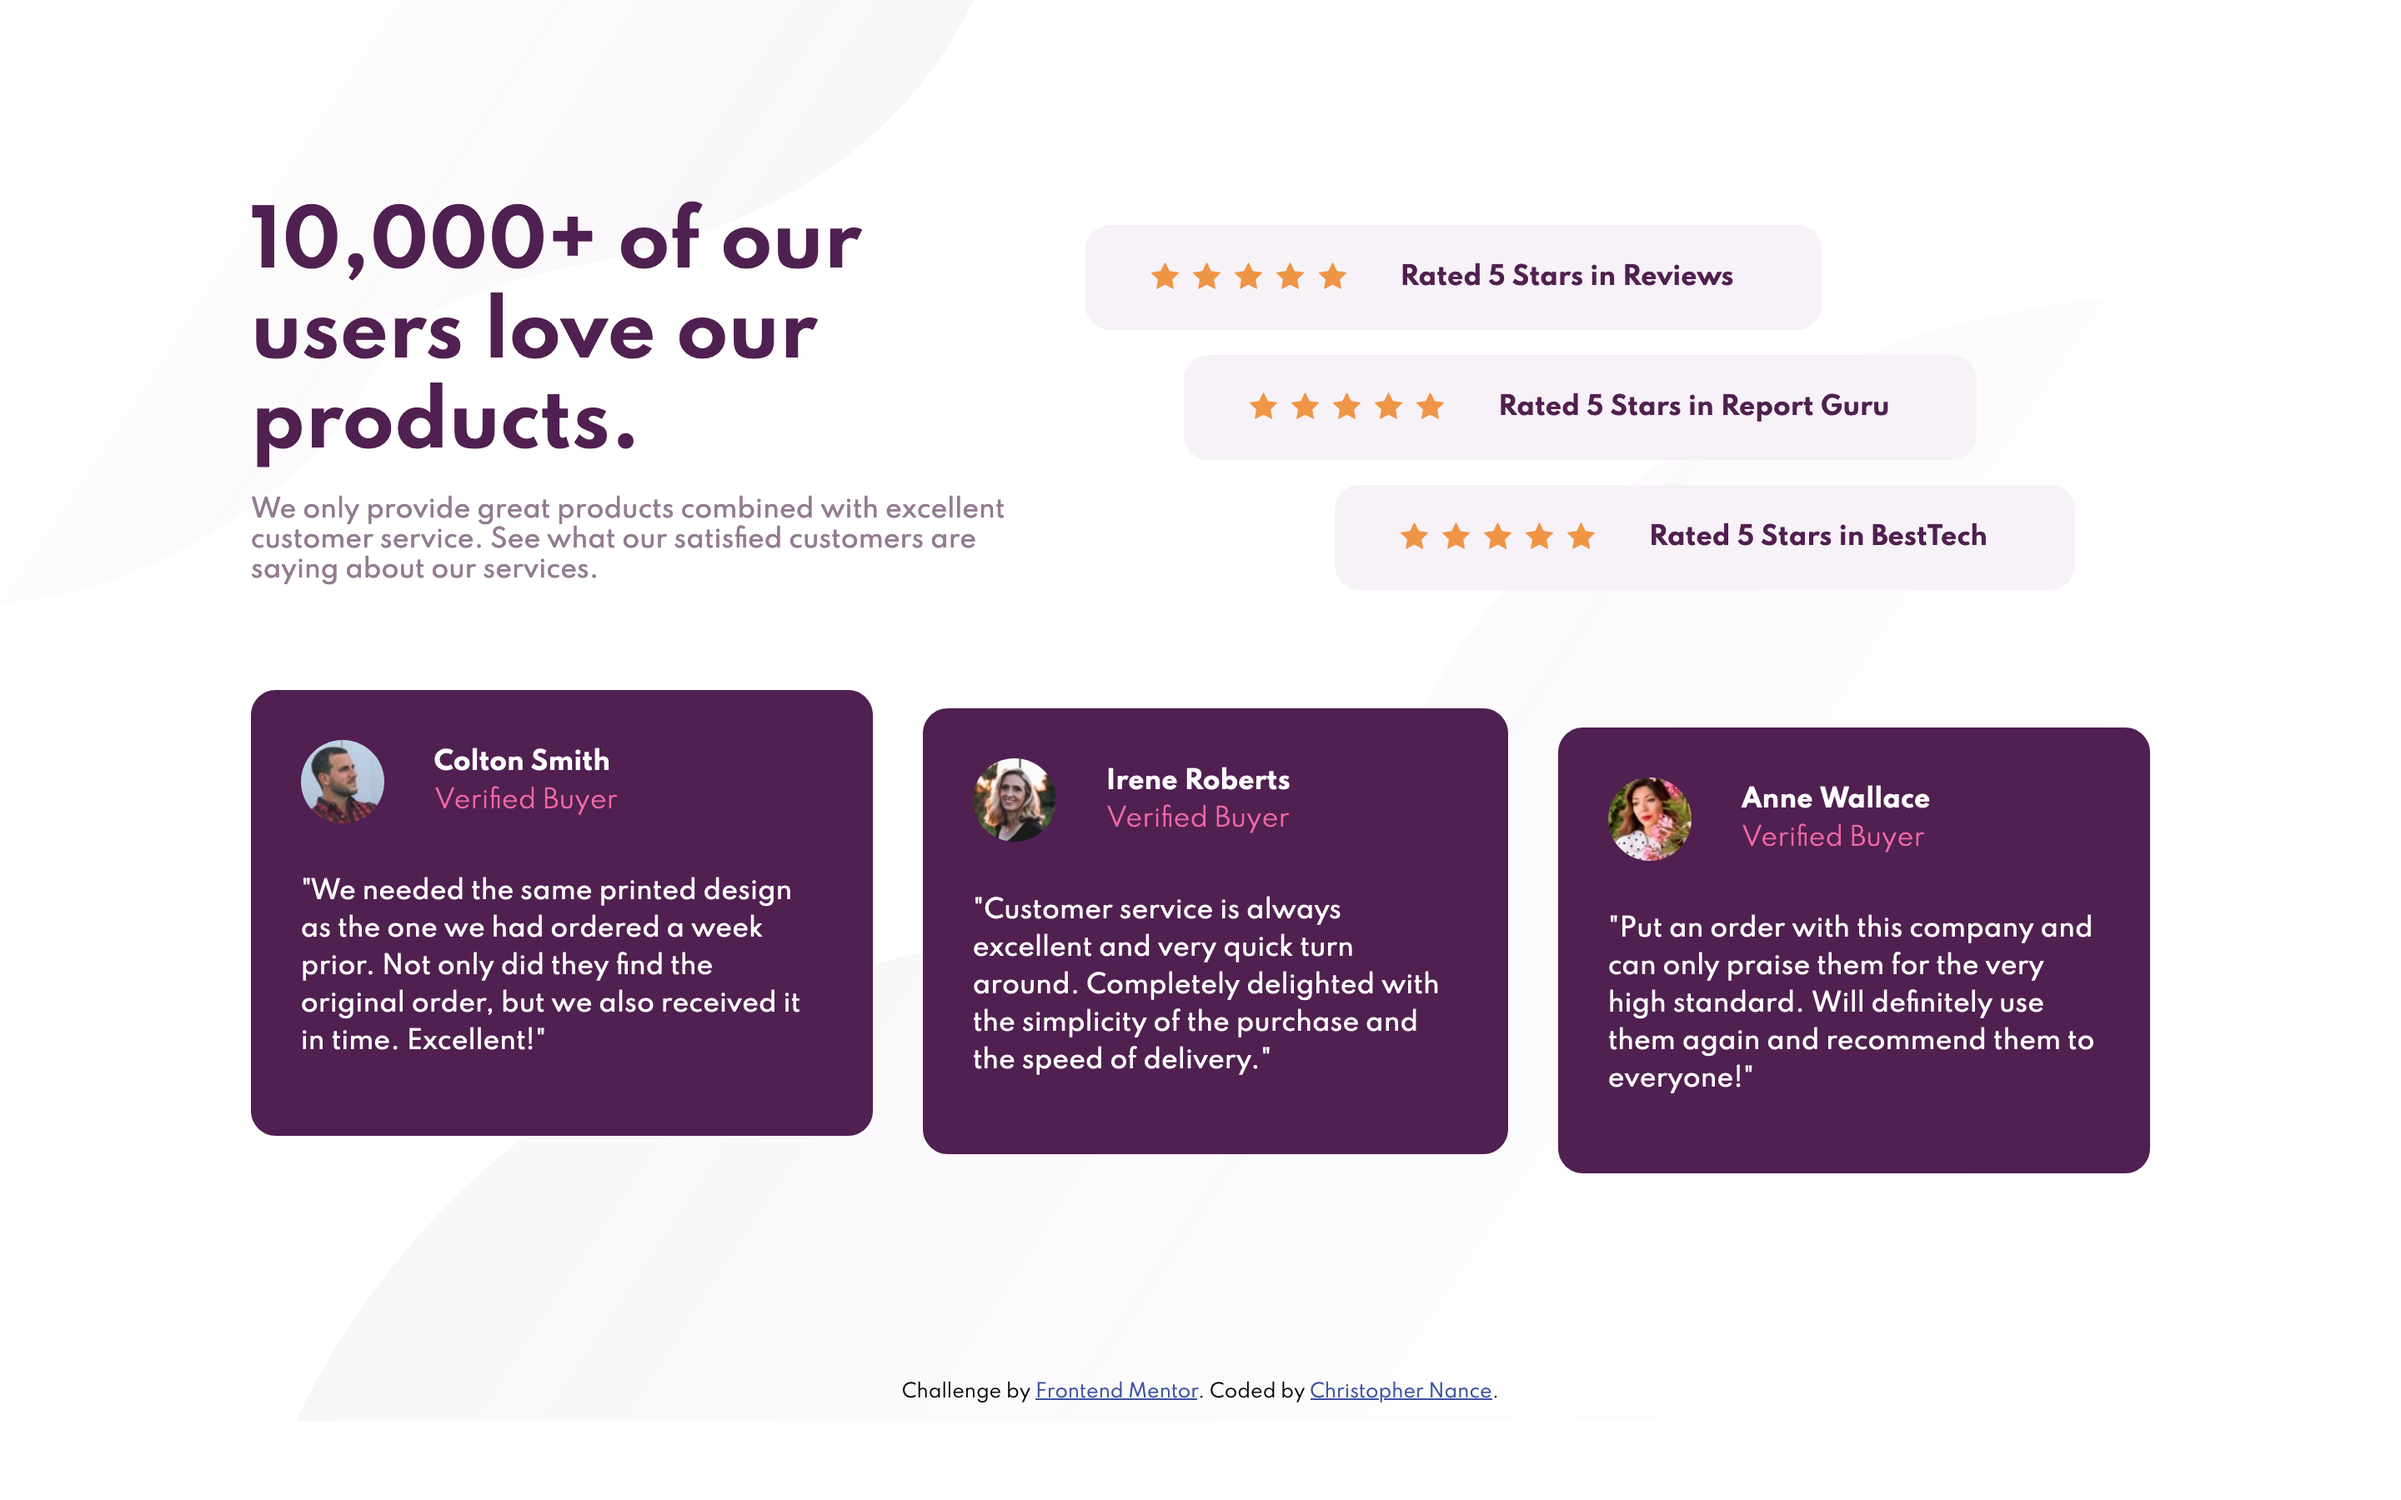
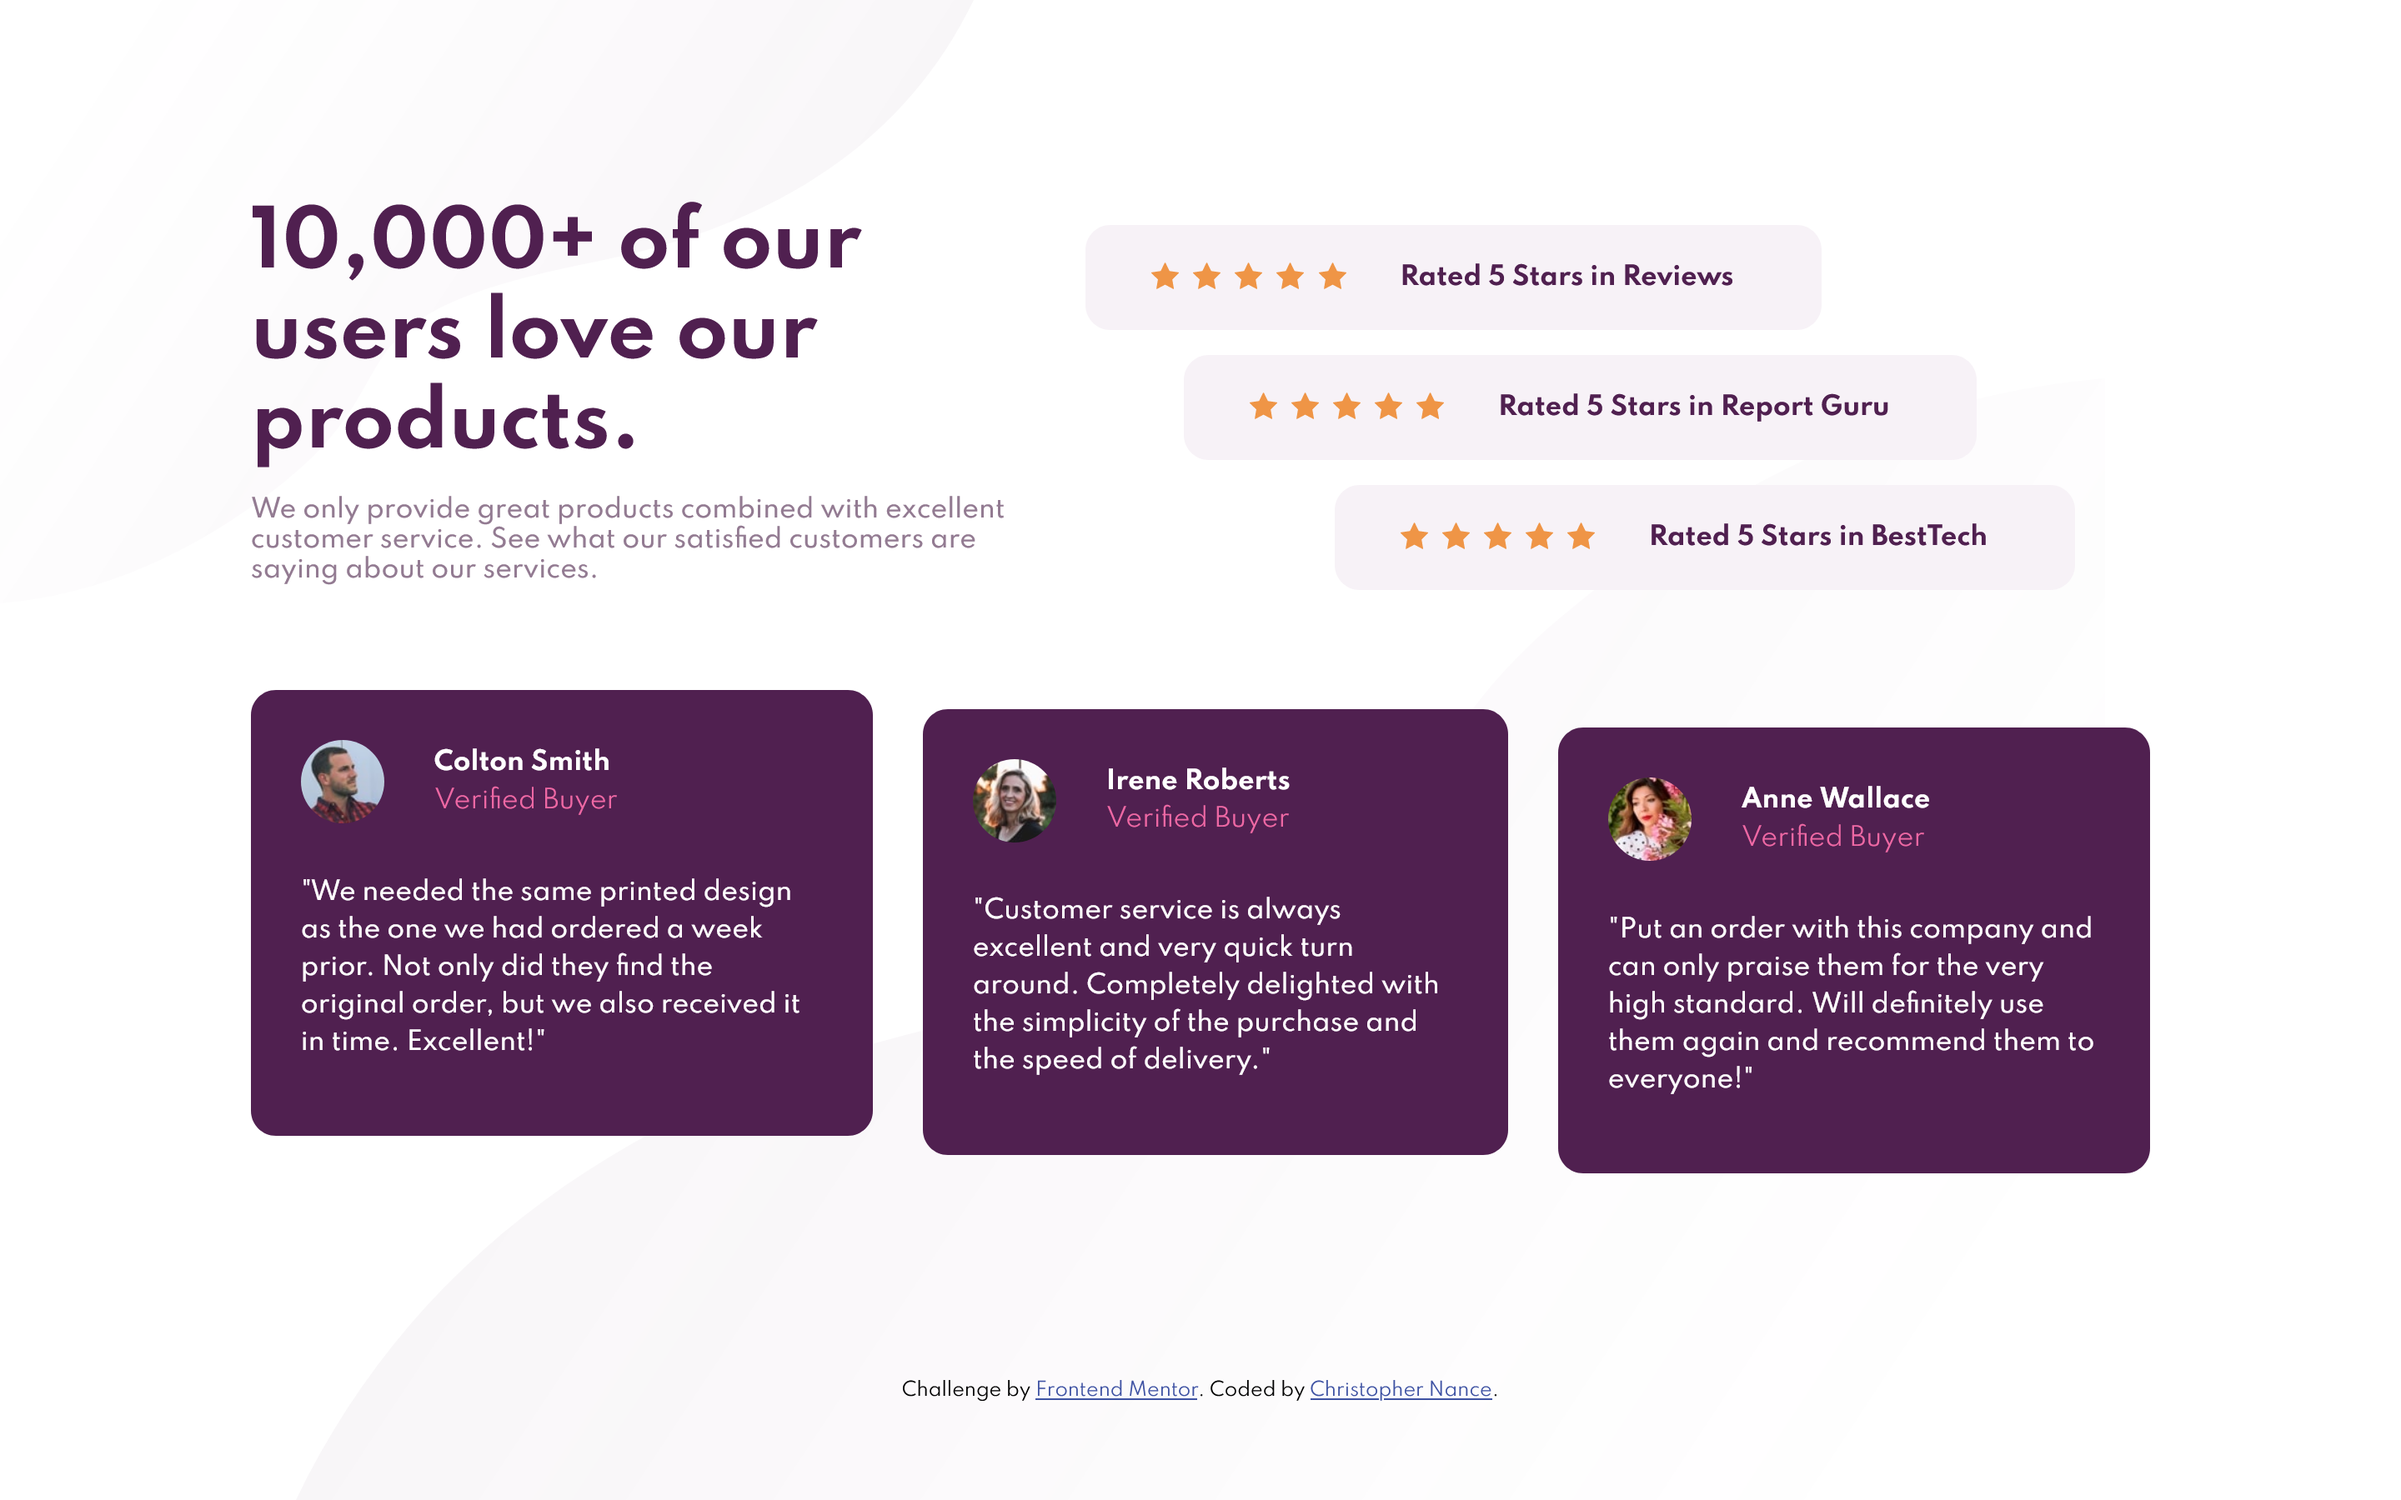
adjusted project & about design

diff --git a/css/styles.css b/css/styles.css
@@ -5,7 +5,7 @@
     --bg-color-dark: hsl(169, 12%, 10%);
     --bg-color-medium: hsl(169, 12%, 28%);
     --bg-color-medium-trans: hsla(169, 12%, 28%, 0);
-    --bg-color-green: hsl(165, 69%, 40%);
+    --bg-color-green: hsl(165, 70%, 40%);
 }
 
 /* HTML Styles */
@@ -31,20 +31,28 @@ header {
     left: 0;
     padding: 0 2em;
     background-color: var(--bg-color-medium);
-    border-bottom: .5em solid var(--bg-color-green);
-    box-shadow: .25em .25em 1em hsla(0, 0%, 10%, 0.5);
+    border-bottom: 0.5em solid var(--bg-color-green);
+    box-shadow: 0.25em 0.25em 1em hsla(0, 0%, 10%, 0.5);
     z-index: 1;
 }
 
 footer {
     background-color: var(--bg-color-medium);
     color: white;
-    border-top: .5em solid var(--bg-color-green);
+    border-top: 0.5em solid var(--bg-color-green);
     padding: 4em 2em 2em; /* Causing overflow? */
 }
 
-a:link, a:visited { text-decoration: none; }
-a:focus, a:hover, a:active { text-decoration: underline; text-decoration-color: var(--bg-color-green); }
+a:link,
+a:visited {
+    text-decoration: none;
+}
+a:focus,
+a:hover,
+a:active {
+    text-decoration: underline;
+    text-decoration-color: var(--bg-color-green);
+}
 
 a {
     text-decoration: none;
@@ -92,7 +100,7 @@ nav ul {
     font-size: 1.15rem;
 }
 
-#intro { 
+#intro {
     display: flex;
     flex-direction: column;
     justify-content: center;
@@ -122,7 +130,7 @@ a .icon:hover {
 
 .logo-link {
     background-color: var(--bg-color-green);
-    color: #FFF;
+    color: #fff;
     border: 2px solid var(--bg-color-medium);
     border-radius: 50%;
     padding: 6px;
@@ -134,12 +142,7 @@ a .icon:hover {
     background-color: var(--bg-color-dark);
     color: white;
     height: 90vh;
-    clip-path: polygon(
-        0% 0%,
-        0% 100%,
-        100% 90%,
-        100% 0%
-    );
+    clip-path: polygon(0% 0%, 0% 100%, 100% 90%, 100% 0%);
 }
 
 #intro h1 {
@@ -156,17 +159,21 @@ a .icon:hover {
     max-width: 300px;
     font-size: 1.25rem;
     border-bottom: 1px solid hsl(169, 12%, 28%);
-    margin: 0 auto .5em;
-    padding-bottom: .15em;
+    margin: 0 auto 0.5em;
 }
 
-#projects, #about {
+#projects,
+#about {
     padding-bottom: 3em;
 }
 
 #projects {
     width: 90vw;
-    margin: 0 auto;
+    margin: 0 auto 3em;
+}
+
+#projects h2 {
+    background-color: white;
 }
 
 .cards a {
@@ -175,10 +182,10 @@ a .icon:hover {
 
 .card {
     background-color: black;
-    border-top: 6px solid #1fab89;
-    border-radius: .5em;
-    box-shadow: 0px 4px 8px rgba(0,0,0,0.25);
-    background-color: #f6f6f6;
+    border-top: 6px solid var(--bg-color-green);
+    border-radius: 0.5em;
+    box-shadow: 0px 4px 8px hsla(0, 0%, 0%, 0.25);
+    background-color: hsl(0, 0%, 96%);
     margin: 0 auto 2em;
     transition: 0.3s;
 }
@@ -194,18 +201,47 @@ a .icon:hover {
 }
 
 .card:hover {
-    box-shadow: 0 8px 16px rgba(0,0,0,0.25);
+    box-shadow: 0 8px 16px hsla(0, 0%, 0%, 0.3);
+}
+
+.section-header {
+    font-size: 2.5rem;
+    max-width: 400px;
+    margin: 0 auto 1.5em;
+    padding: 3em 0 1em;
+    position: relative;
+    border-bottom: 4px solid transparent;
+    border-bottom-width: 4px;
+    border-bottom-style: solid;
+    border-image: linear-gradient(
+        to left,
+        var(--bg-color-medium-trans) 0%,
+        var(--bg-color-medium) 50%,
+        var(--bg-color-medium-trans) 100%
+    ) 100% 0 100% 0;
 }
 
 #about {
-    background-color: hsl(169, 12%, 10%);
+    background-color: var(--bg-color-dark);
     color: white;
-    clip-path: polygon(
+    /* clip-path: polygon(
         0% 10%,
         100% 0%,
         100% 100%,
         0% 100%
-    );
+    ); */
+    position: relative;
+}
+
+#about::before {
+    content: "";
+    position: absolute;
+    top: -3em;
+    left: 0;
+    background-color: var(--bg-color-dark);
+    width: 100vw;
+    height: 6em;
+    border-radius: 50%;
 }
 
 #about p {
@@ -216,34 +252,6 @@ a .icon:hover {
     line-height: 1.25;
 }
 
-.section-header {
-    font-size: 2.5rem;
-    max-width: 400px;
-    margin: 0 auto 1.5em;
-    padding: 3em 0 1em;
-    position: relative;
-    border-bottom: 4px solid transparent;
-    background-clip: padding-box;
-}
-
-.section-header::before {
-    content: "";
-    position: absolute;
-    top: 0; right: 0; bottom: 0; left: 0;
-    margin-bottom: -4px;
-    background: linear-gradient(
-        to right, 
-        var(--bg-color-medium-trans) 0%, 
-        var(--bg-color-medium) 50%, 
-        var(--bg-color-medium-trans) 100%
-        );
-    z-index: -1;
-}
-
-#projects h2 {
-    background-color: white;
-}
-
 #about h2 {
     background-color: var(--bg-color-dark);
 }
@@ -251,11 +259,10 @@ a .icon:hover {
 /* Footer Styles */
 
 .social-icon-container > * {
-    padding: 0 .5em;
+    padding: 0 0.5em;
 }
 
 @media screen and (min-width: 768px) {
-
     header {
         padding: 0 4em;
     }
@@ -274,7 +281,6 @@ a .icon:hover {
 }
 
 @media screen and (min-width: 1440px) {
-
     header {
         padding: 0 8em;
     }
